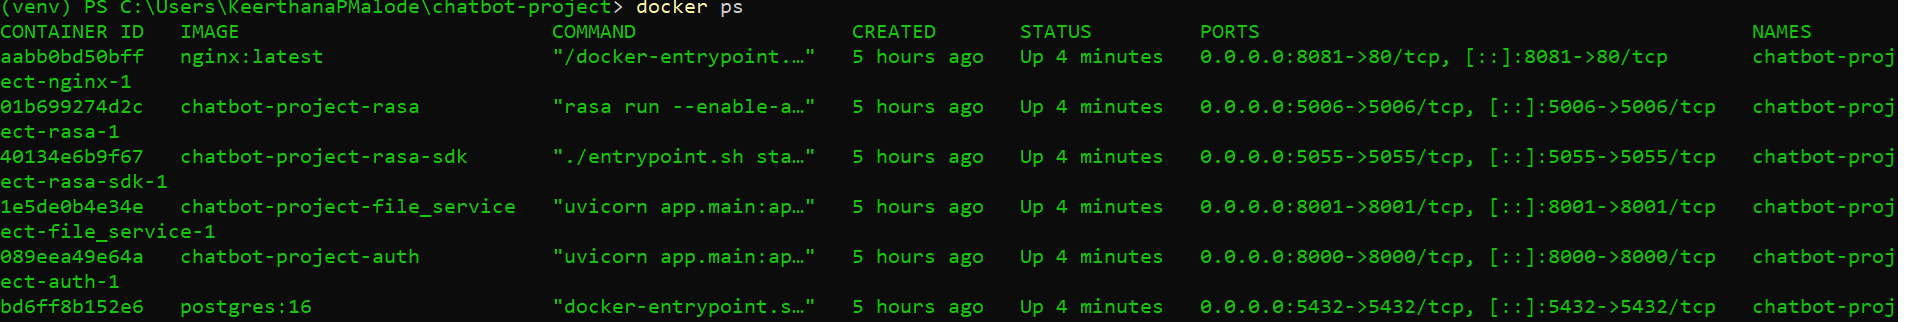
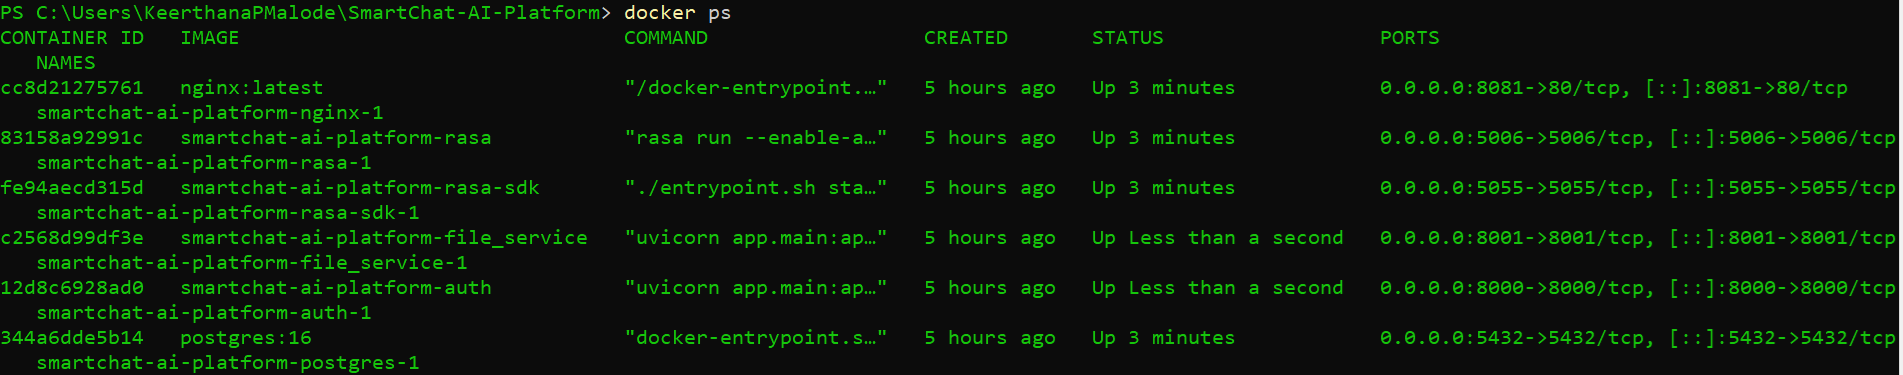
Configure Rasa Docker service and update project documentation

diff --git a/README.md b/README.md
@@ -390,28 +390,19 @@ See the deployment screenshot below.
 
 ## Chatbot
 
-<!--
-TODO: Re-enable the login page screenshot once it's updated.
 ![Chatbot](docs/images/chatbot-ui.png)
--->
 
 ---
 
 ## Admin Dashboard
 
-<!--
-TODO: Re-enable the login page screenshot once it's updated.
 ![Admin](docs/images/admin-dashboard.png)
--->
 
 ---
 
 ## File Manager
 
-<!--
-TODO: Re-enable the login page screenshot once it's updated.
 ![Files](docs/images/file-management.png)
--->
 
 ---
 
